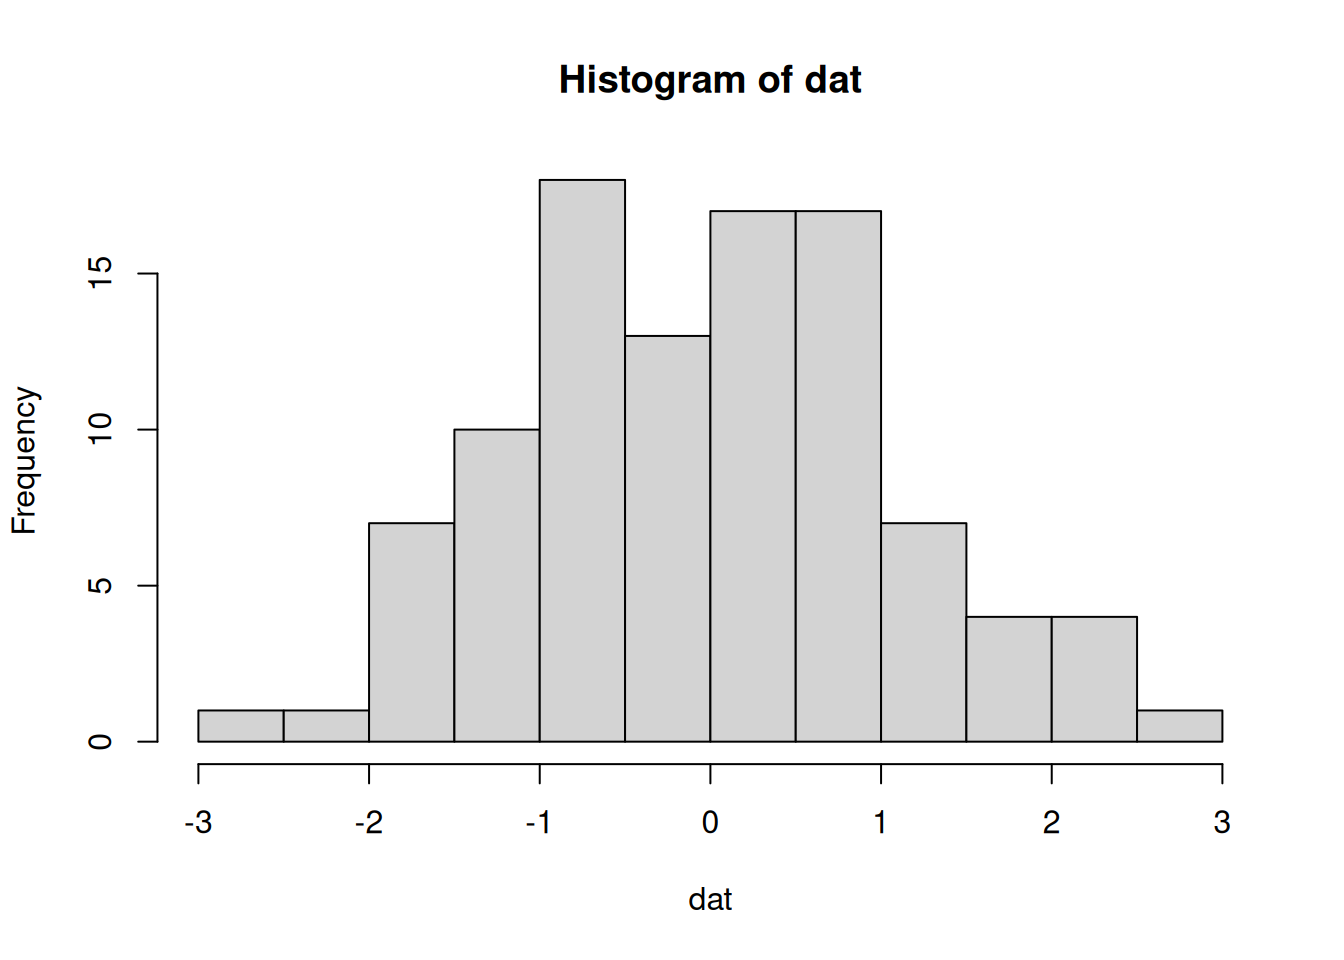
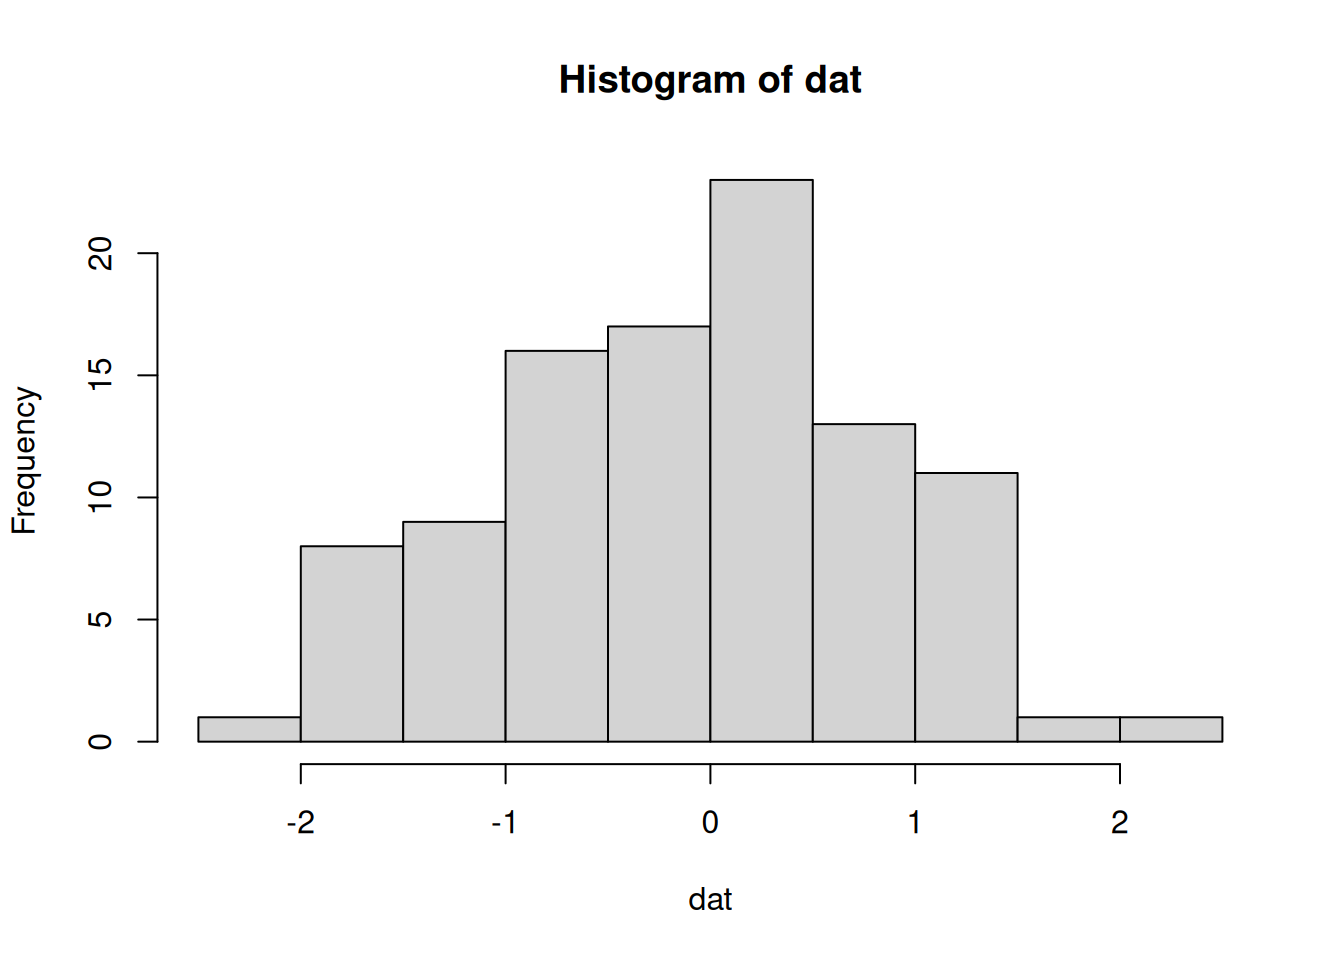
Built site for gh-pages

diff --git a/resources.html b/resources.html
@@ -378,7 +378,7 @@ window.Quarto = {
 
 <div id="listing-list-resources" class="quarto-listing quarto-listing-container-grid">
 <div class="list grid quarto-listing-cols-3">
-<div class="g-col-1" data-index="0" data-categories="VGFtcGElMjBCYXk=" data-listing-file-modified-sort="1741353073428" data-listing-reading-time-sort="1" data-listing-word-count-sort="55">
+<div class="g-col-1" data-index="0" data-categories="VGFtcGElMjBCYXk=" data-listing-file-modified-sort="1741353415365" data-listing-reading-time-sort="1" data-listing-word-count-sort="55">
 <a href="./resources/tbepbt.html" class="quarto-grid-link">
 <div class="quarto-grid-item card h-100 card-left">
 <p class="card-img-top">
@@ -405,7 +405,7 @@ A benthic data dashboard for Tampa Bay
 </div>
 </a>
 </div>
-<div class="g-col-1" data-index="1" data-categories="TGFrZXMlMkNXYXRlciUyMFF1YWxpdHk=" data-listing-file-modified-sort="1741353073428" data-listing-reading-time-sort="1" data-listing-word-count-sort="104">
+<div class="g-col-1" data-index="1" data-categories="TGFrZXMlMkNXYXRlciUyMFF1YWxpdHk=" data-listing-file-modified-sort="1741353415365" data-listing-reading-time-sort="1" data-listing-word-count-sort="104">
 <a href="./resources/exp_lakes.html" class="quarto-grid-link">
 <div class="quarto-grid-item card h-100 card-left">
 <p class="card-img-top">
@@ -435,7 +435,7 @@ IISD-Experimental Lakes Area Interactive Data
 </div>
 </a>
 </div>
[2 lines of base64/hex data omitted]
 <a href="./resources/fl_wq_dash.html" class="quarto-grid-link">
 <div class="quarto-grid-item card h-100 card-left">
 <p class="card-img-top">
@@ -468,7 +468,7 @@ Dashboard for displaying basic water quality data in Florida.
 </div>
 </a>
 </div>
-<div class="g-col-1" data-index="3" data-categories="VGFtcGElMjBCYXk=" data-listing-file-modified-sort="1741353073428" data-listing-reading-time-sort="1" data-listing-word-count-sort="63">
+<div class="g-col-1" data-index="3" data-categories="VGFtcGElMjBCYXk=" data-listing-file-modified-sort="1741353415365" data-listing-reading-time-sort="1" data-listing-word-count-sort="63">
 <a href="./resources/tbeplu.html" class="quarto-grid-link">
 <div class="quarto-grid-item card h-100 card-left">
 <p class="card-img-top">
@@ -495,7 +495,7 @@ A land use change dashboard for Tampa Bay
 </div>
 </a>
 </div>
-<div class="g-col-1" data-index="4" data-categories="TUJPTiUyQ0NsaW1hdGUlMjBDaGFuZ2UlMkNUaW1lJTIwU2VyaWVz" data-listing-file-modified-sort="1741353073428" data-listing-reading-time-sort="1" data-listing-word-count-sort="15">
+<div class="g-col-1" data-index="4" data-categories="TUJPTiUyQ0NsaW1hdGUlMjBDaGFuZ2UlMkNUaW1lJTIwU2VyaWVz" data-listing-file-modified-sort="1741353415365" data-listing-reading-time-sort="1" data-listing-word-count-sort="15">
 <a href="./resources/nms_climate_dash.html" class="quarto-grid-link">
 <div class="quarto-grid-item card h-100 card-left">
 <p class="card-img-top">
@@ -528,7 +528,7 @@ NOAA NMS Climate Dashboard
 </div>
 </a>
 </div>
-<div class="g-col-1" data-index="5" data-categories="VGFtcGElMjBCYXk=" data-listing-file-modified-sort="1741353073428" data-listing-reading-time-sort="1" data-listing-word-count-sort="63">
+<div class="g-col-1" data-index="5" data-categories="VGFtcGElMjBCYXk=" data-listing-file-modified-sort="1741353415365" data-listing-reading-time-sort="1" data-listing-word-count-sort="63">
 <a href="./resources/tbepnk.html" class="quarto-grid-link">
 <div class="quarto-grid-item card h-100 card-left">
 <p class="card-img-top">
@@ -555,7 +555,7 @@ A nekton data dashboard for Tampa Bay
 </div>
 </a>
 </div>
-<div class="g-col-1" data-index="6" data-categories="TUJPTiUyQ0Jpb2RpdmVyc2l0eSUyQ1NwYXRpYWwlMjBNYXBwaW5n" data-listing-file-modified-sort="1741353073428" data-listing-reading-time-sort="1" data-listing-word-count-sort="13">
+<div class="g-col-1" data-index="6" data-categories="TUJPTiUyQ0Jpb2RpdmVyc2l0eSUyQ1NwYXRpYWwlMjBNYXBwaW5n" data-listing-file-modified-sort="1741353415365" data-listing-reading-time-sort="1" data-listing-word-count-sort="13">
 <a href="./resources/obisindicators.html" class="quarto-grid-link">
 <div class="quarto-grid-item card h-100 card-left">
 <p class="card-img-top">
@@ -588,7 +588,7 @@ A library for mapping biodiversity using OBIS data
 </div>
 </a>
 </div>
-<div class="g-col-1" data-index="7" data-categories="TGFrZXMlMkNXYXRlciUyMFF1YWxpdHk=" data-listing-file-modified-sort="1741353073428" data-listing-reading-time-sort="1" data-listing-word-count-sort="19">
+<div class="g-col-1" data-index="7" data-categories="TGFrZXMlMkNXYXRlciUyMFF1YWxpdHk=" data-listing-file-modified-sort="1741353415365" data-listing-reading-time-sort="1" data-listing-word-count-sort="19">
 <a href="./resources/peterpaul.html" class="quarto-grid-link">
 <div class="quarto-grid-item card h-100 card-left">
 <p class="card-img-top">
@@ -618,7 +618,7 @@ Peter and Paul Lakes Data Explorer
 </div>
 </a>
 </div>
-<div class="g-col-1" data-index="8" data-categories="VGFtcGElMjBCYXk=" data-listing-file-modified-sort="1741353073428" data-listing-reading-time-sort="1" data-listing-word-count-sort="67">
+<div class="g-col-1" data-index="8" data-categories="VGFtcGElMjBCYXk=" data-listing-file-modified-sort="1741353415365" data-listing-reading-time-sort="1" data-listing-word-count-sort="67">
 <a href="./resources/tbeppp.html" class="quarto-grid-link">
 <div class="quarto-grid-item card h-100 card-left">
 <p class="card-img-top">
@@ -645,7 +645,7 @@ A Piney Point dashboard for Tampa Bay
 </div>
 </a>
 </div>
[2 lines of base64/hex data omitted]
 <a href="./resources/rocky_shore_dash.html" class="quarto-grid-link">
 <div class="quarto-grid-item card h-100 card-left">
 <p class="card-img-top">
@@ -678,7 +678,7 @@ MBON Pole to Pole Biodiversity Dashboard.
 </div>
 </a>
 </div>
-<div class="g-col-1" data-index="10" data-categories="VGFtcGElMjBCYXk=" data-listing-file-modified-sort="1741353073428" data-listing-reading-time-sort="1" data-listing-word-count-sort="51">
+<div class="g-col-1" data-index="10" data-categories="VGFtcGElMjBCYXk=" data-listing-file-modified-sort="1741353415365" data-listing-reading-time-sort="1" data-listing-word-count-sort="51">
 <a href="./resources/tbepsc.html" class="quarto-grid-link">
 <div class="quarto-grid-item card h-100 card-left">
 <p class="card-img-top">
@@ -705,7 +705,7 @@ A scallop dashboard for Tampa Bay
 </div>
 </a>
 </div>
-<div class="g-col-1" data-index="11" data-categories="VGFtcGElMjBCYXklMkNmbGV4ZGFzaGJvYXJk" data-listing-file-modified-sort="1741353073428" data-listing-reading-time-sort="1" data-listing-word-count-sort="54">
+<div class="g-col-1" data-index="11" data-categories="VGFtcGElMjBCYXklMkNmbGV4ZGFzaGJvYXJk" data-listing-file-modified-sort="1741353415365" data-listing-reading-time-sort="1" data-listing-word-count-sort="54">
 <a href="./resources/tbepsg.html" class="quarto-grid-link">
 <div class="quarto-grid-item card h-100 card-left">
 <p class="card-img-top">
@@ -735,7 +735,7 @@ A seagrass transect dashboard for Tampa Bay
 </div>
 </a>
 </div>
[2 lines of base64/hex data omitted]
 <a href="./resources/seascapes.html" class="quarto-grid-link">
 <div class="quarto-grid-item card h-100 card-left">
 <p class="card-img-top">
@@ -771,7 +771,7 @@ Seascapes over time and space for US Sanctuaries
 </div>
 </a>
 </div>
-<div class="g-col-1" data-index="13" data-categories="VGFtcGElMjBCYXklMkNmbGV4ZGFzaGJvYXJk" data-listing-file-modified-sort="1741353073428" data-listing-reading-time-sort="1" data-listing-word-count-sort="71">
+<div class="g-col-1" data-index="13" data-categories="VGFtcGElMjBCYXklMkNmbGV4ZGFzaGJvYXJk" data-listing-file-modified-sort="1741353415365" data-listing-reading-time-sort="1" data-listing-word-count-sort="71">
 <a href="./resources/tbeptc.html" class="quarto-grid-link">
 <div class="quarto-grid-item card h-100 card-left">
 <p class="card-img-top">
@@ -801,7 +801,7 @@ A tidal creek dashboard for Tampa Bay
 </div>
 </a>
 </div>
-<div class="g-col-1" data-index="14" data-listing-file-modified-sort="1741353073429" data-listing-reading-time-sort="2" data-listing-word-count-sort="354">
+<div class="g-col-1" data-index="14" data-listing-file-modified-sort="1741353415365" data-listing-reading-time-sort="2" data-listing-word-count-sort="354">
 <a href="./resources/useful.html" class="quarto-grid-link">
 <div class="quarto-grid-item card h-100 card-left">
 <p class="card-img-top">
@@ -823,7 +823,7 @@ Additional resources for continued learning
 </div>
 </a>
 </div>
-<div class="g-col-1" data-index="15" data-categories="TGFrZXMlMkNXYXRlciUyMFF1YWxpdHk=" data-listing-file-modified-sort="1741353073429" data-listing-reading-time-sort="1" data-listing-word-count-sort="43">
+<div class="g-col-1" data-index="15" data-categories="TGFrZXMlMkNXYXRlciUyMFF1YWxpdHk=" data-listing-file-modified-sort="1741353415365" data-listing-reading-time-sort="1" data-listing-word-count-sort="43">
 <a href="./resources/utahlakes.html" class="quarto-grid-link">
 <div class="quarto-grid-item card h-100 card-left">
 <p class="card-img-top">
@@ -853,7 +853,7 @@ Utah Lake Data Explorer
 </div>
 </a>
 </div>
-<div class="g-col-1" data-index="16" data-categories="VGFtcGElMjBCYXklMkNXYXRlciUyMFF1YWxpdHklMkNmbGV4ZGFzaGJvYXJk" data-listing-file-modified-sort="1741353073429" data-listing-reading-time-sort="1" data-listing-word-count-sort="50">
+<div class="g-col-1" data-index="16" data-categories="VGFtcGElMjBCYXklMkNXYXRlciUyMFF1YWxpdHklMkNmbGV4ZGFzaGJvYXJk" data-listing-file-modified-sort="1741353415365" data-listing-reading-time-sort="1" data-listing-word-count-sort="50">
 <a href="./resources/tbepwq.html" class="quarto-grid-link">
 <div class="quarto-grid-item card h-100 card-left">
 <p class="card-img-top">

diff --git a/rintro.html b/rintro.html
@@ -425,31 +425,31 @@ pre > code.sourceCode > span > a:first-child::before { text-decoration: underlin
 <div class="sourceCode cell-code" id="cb5"><pre class="sourceCode r code-with-copy"><code class="sourceCode r"><span id="cb5-1"><a href="#cb5-1" aria-hidden="true" tabindex="-1"></a><span class="co"># random numbers</span></span>
 <span id="cb5-2"><a href="#cb5-2" aria-hidden="true" tabindex="-1"></a><span class="fu">rnorm</span>(<span class="dv">100</span>, <span class="at">mean =</span> <span class="dv">10</span>, <span class="at">sd =</span> <span class="dv">2</span>)</span></code><button title="Copy to Clipboard" class="code-copy-button"><i class="bi"></i></button></pre></div>
 <div class="cell-output cell-output-stdout">
-<pre><code>  [1]  9.013604  8.658115 11.224859 12.273910 11.472704 14.074305 10.348928
-  [8] 12.023447 11.422605 11.515292 12.529454 11.914195  7.139875 13.523450
- [15]  8.655202 11.715946 10.368916 10.552547  7.308462 13.380856 14.747733
- [22]  5.906715 13.132941 11.334364  6.275834 10.128112 10.853215  8.356937
- [29] 10.879772  9.861968 10.259007 11.945589  8.458885 11.752924 12.269132
- [36] 12.271097 10.479471  9.330284  8.933599 10.734108  8.864203  9.946436
- [43]  8.393968  7.026156 12.618420  9.985302 12.182133 11.619858 11.134138
- [50] 11.800419  8.069377 15.502566  9.165791 11.549105 11.133040 10.581002
- [57]  9.087470 10.568104  7.213250  7.668157  4.724729  7.140664  8.062234
- [64] 14.043437  9.641788 11.150622 12.303994  8.355111 11.748153 14.882862
- [71] 14.444025 10.524241  8.896801 10.339180 11.143736  9.537625 11.385440
- [78] 11.858206 12.603396 11.179416 11.924430 11.418731 13.683261  9.466863
- [85] 13.299797  8.393056 12.273173  5.736965  7.790360  6.813613  7.012059
- [92]  8.213902 11.921933  8.484246  8.791657 11.228221  4.894980 13.023726
- [99]  9.151350 11.403294</code></pre>
+<pre><code>  [1] 12.198704 11.954930 13.233106  9.910692 13.178980 14.628898 10.604450
+  [8]  8.980250  5.652129  8.234619 11.937076 10.912039 10.404393 11.561376
+ [15]  9.189772  9.231690 12.375946 10.970844  8.314971 11.431982 10.829336
+ [22] 10.433063 10.040789 10.218191 11.115199  9.990680  9.953865  6.622241
+ [29] 12.551493  9.967666  9.423653 11.014692 11.452196 12.158213 12.402371
+ [36] 10.152890  9.525238 11.424669  9.800356 10.642416 11.503995 11.820788
+ [43]  8.551717 10.799836  9.606253 10.310699 10.409289 13.152233 10.001402
+ [50] 10.656057  8.026156 10.479774 10.754324 10.452300 10.334320 11.753993
+ [57] 14.392401 10.139495 11.642913 10.882266  9.072162 10.292800  9.718649
+ [64] 14.272892 10.501682  8.237880  9.916568  9.951903 13.055841  6.041511
+ [71]  7.921575 10.184249  9.461104  8.230220  9.165982 11.591944 10.038738
+ [78] 11.638764 10.887779 11.091151  7.987093  8.515185  8.473791  7.746504
+ [85] 13.956846  8.196250 11.013361  5.999233  9.935596  9.109151  6.668288
+ [92] 13.255513  7.861268 11.221434  6.719670 10.411560  9.718470  5.125506
+ [99]  9.568106  8.911203</code></pre>
 </div>
 <div class="sourceCode cell-code" id="cb7"><pre class="sourceCode r code-with-copy"><code class="sourceCode r"><span id="cb7-1"><a href="#cb7-1" aria-hidden="true" tabindex="-1"></a><span class="co"># average </span></span>
 <span id="cb7-2"><a href="#cb7-2" aria-hidden="true" tabindex="-1"></a><span class="fu">mean</span>(<span class="fu">rnorm</span>(<span class="dv">100</span>))</span></code><button title="Copy to Clipboard" class="code-copy-button"><i class="bi"></i></button></pre></div>
 <div class="cell-output cell-output-stdout">
-<pre><code>[1] -0.01743113</code></pre>
+<pre><code>[1] 0.09592548</code></pre>
 </div>
 <div class="sourceCode cell-code" id="cb9"><pre class="sourceCode r code-with-copy"><code class="sourceCode r"><span id="cb9-1"><a href="#cb9-1" aria-hidden="true" tabindex="-1"></a><span class="co"># sum</span></span>
 <span id="cb9-2"><a href="#cb9-2" aria-hidden="true" tabindex="-1"></a><span class="fu">sum</span>(<span class="fu">rnorm</span>(<span class="dv">100</span>))</span></code><button title="Copy to Clipboard" class="code-copy-button"><i class="bi"></i></button></pre></div>
 <div class="cell-output cell-output-stdout">
-<pre><code>[1] -4.817207</code></pre>
+<pre><code>[1] 11.87226</code></pre>
 </div>
 </div>
 <p>Very often you will see functions used like this:</p>
@@ -460,7 +460,7 @@ pre > code.sourceCode > span > a:first-child::before { text-decoration: underlin
 <div class="cell">
 <div class="sourceCode cell-code" id="cb12"><pre class="sourceCode r code-with-copy"><code class="sourceCode r"><span id="cb12-1"><a href="#cb12-1" aria-hidden="true" tabindex="-1"></a>my_random_sum</span></code><button title="Copy to Clipboard" class="code-copy-button"><i class="bi"></i></button></pre></div>
 <div class="cell-output cell-output-stdout">
-<pre><code>[1] -11.08345</code></pre>
+<pre><code>[1] -18.99455</code></pre>
 </div>
 </div>
 <section id="what-is-the-environment" class="level3" data-number="B.2.1">

diff --git a/index.html b/index.html
@@ -406,7 +406,7 @@ ul.task-list li input[type="checkbox"] {
 <li><p>Feel free to verbally ask questions during the training. You can also type questions in the <a href="https://app.gitter.im/#/room/#nwqmc-shiny:gitter.im" target="_blank">live chat</a> (requires sign-in). Other attendees are welcome to respond to questions in the chat.</p></li>
 <li><p>Please use <a href="https://posit.cloud/content/9569756" target="_blank">Posit Cloud</a> or RStudio installed on your computer to follow along during the workshop. RStudio Cloud can also be used as a backup option. See the <a href="./setup.html">setup</a> instructions for more information.</p></li>
 <li><p>We have a <a href="https://tinyurl.com/live-nwqmc-shiny" target="_blank">live coding</a> link that we’ll be using as we go through the lessons. If you get lost, you can copy/paste code from this link into RStudio.</p></li>
-<li><p>All training content is on this website. If you get lost you can view the agenda to see which lesson we’re covering.</p></li>
+<li><p>All training content is on this website. If you get lost you can view the content on each module to see where we’re at.</p></li>
 </ol>
 </section>
 <section id="setup" class="level2 unnumbered">
